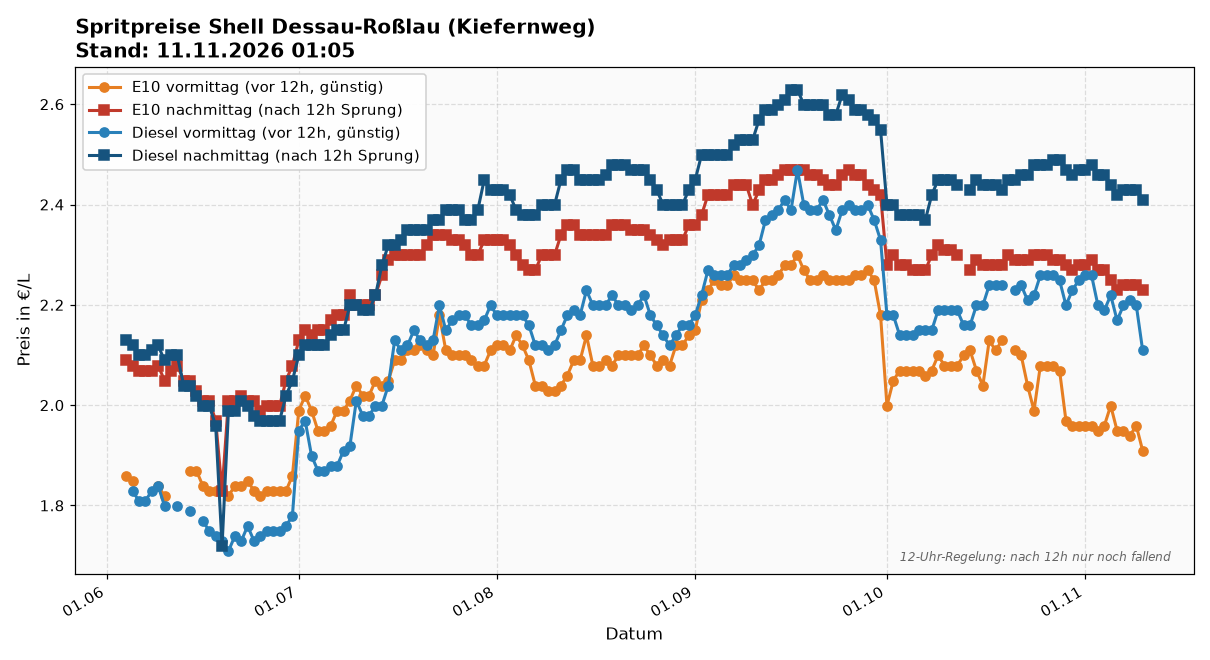
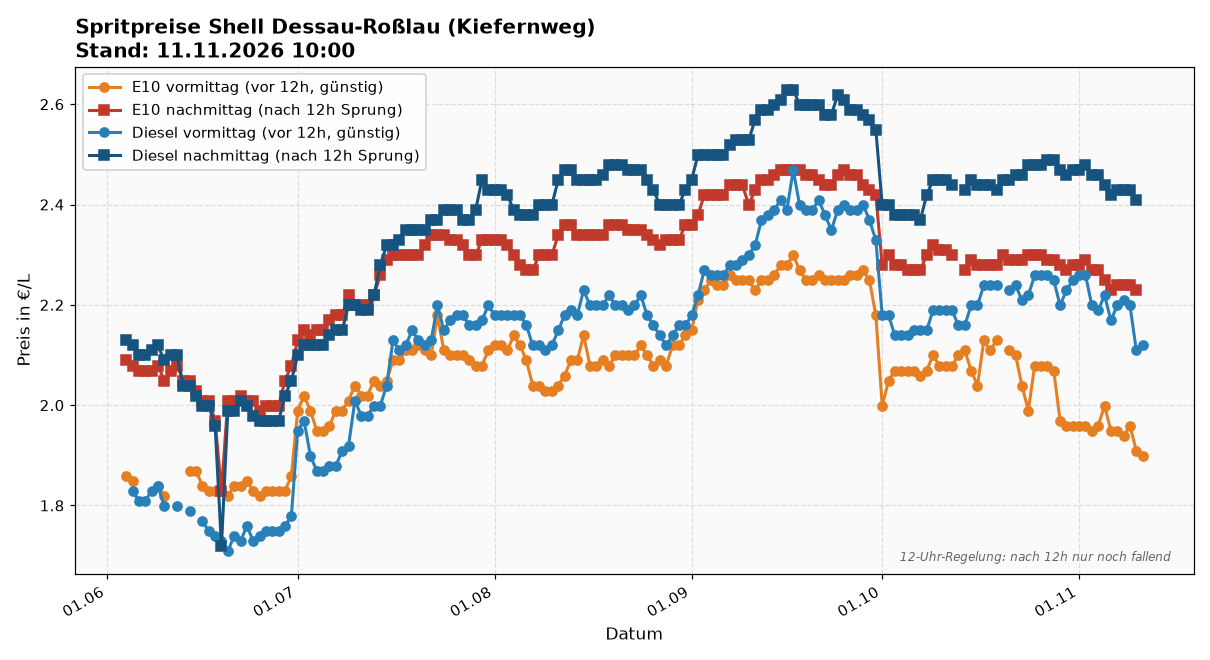
update: spritpreise 2026-11-11 10:00

diff --git a/index.html b/index.html
@@ -19,17 +19,17 @@
 </head>
 <body>
 <h1>🛢 Spritpreise Shell Dessau-Roßlau (Kiefernweg)</h1>
-<div class="sub">Source: Tankerkönig · Stand: 11.11.2026 01:05</div>
+<div class="sub">Source: Tankerkönig · Stand: 11.11.2026 10:00</div>
 
 <img src="latest.png" alt="Preisverlauf">
 
 <div class="latest">
   <strong>Heute (2026-11-11)</strong>
-  <div style="color:#888;font-style:italic;margin-bottom:0.5em;">Noch keine Messung heute — cron läuft 09:00 + 12:10.</div>
+  
   <table>
-    <tr><td>E10 vormittag</td><td class="price">— €</td></tr>
+    <tr><td>E10 vormittag</td><td class="price">1.899 €</td></tr>
     <tr><td>E10 nachmittag</td><td class="price">— €</td></tr>
-    <tr><td>Diesel vormittag</td><td class="price">— €</td></tr>
+    <tr><td>Diesel vormittag</td><td class="price">2.119 €</td></tr>
     <tr><td>Diesel nachmittag</td><td class="price">— €</td></tr>
   </table>
 </div>
